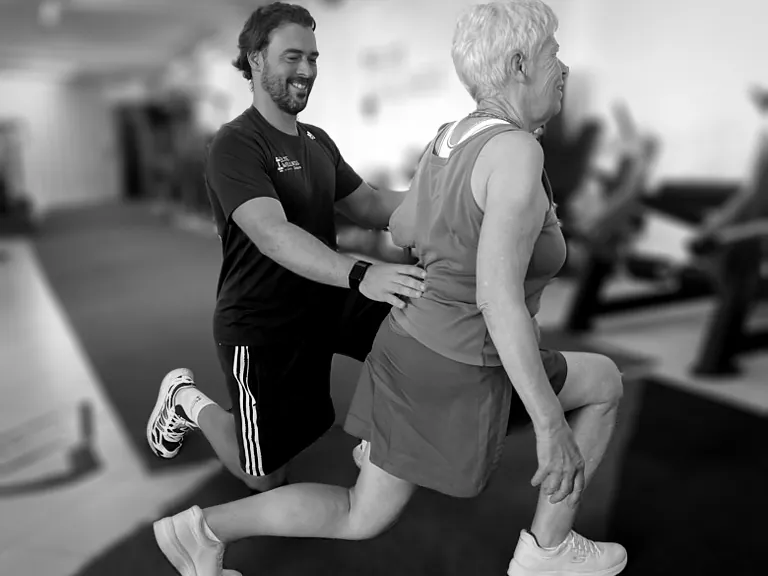
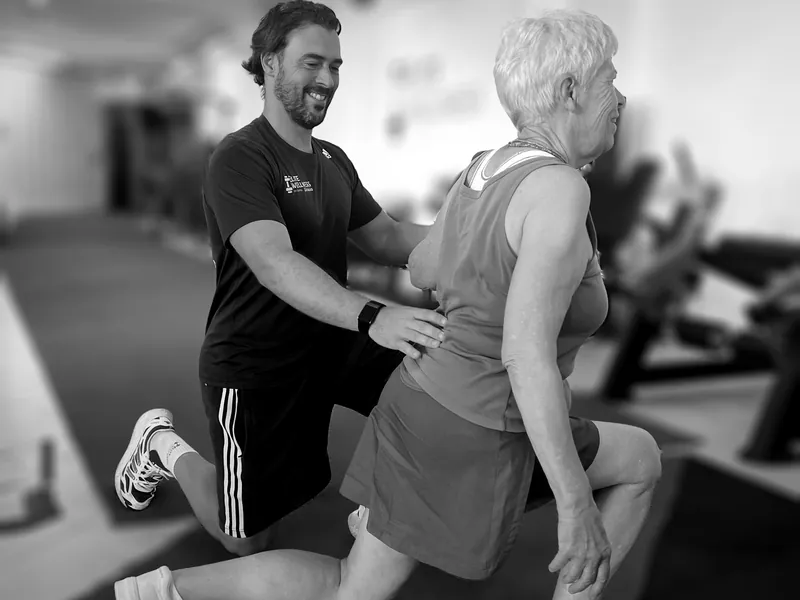
2.4.9.7: the straightened personal training photo, full size
The owner's straightened original (2758x3729) through build/photo.py
--kind hero --top 840: both heads with a little room above, the lunge
down to the knees (a 4:3 crop of this portrait cannot hold heads and
feet). Full size again, so the img gets back its 800 and 1600 srcset.

Claude-Session: https://claude.ai/code/session_01TAEyRdYyFaVDY5SAbe3ABb

diff --git a/elite-wellness-landing_2-4-9-7.html b/elite-wellness-landing_2-4-9-7.html
@@ -1483,7 +1483,7 @@ body.show-grid .grid-overlay{display:block}
   function ptRight(){ return '' }
   function ptBand(){
     var href=WA+encodeURIComponent(BOOK_MSG);
-    return '<div class="v7"><div class="v7-ph"><img class="v7-img" src="assets/pt-session.webp" width="768" height="576" loading="lazy" style="object-position:50% 0%" alt="A coach guiding a member through a lunge in a personal training session at Elite Wellness"></div>'+
+    return '<div class="v7"><div class="v7-ph"><img class="v7-img" src="assets/pt-session.webp" srcset="assets/pt-session-800.webp 800w, assets/pt-session.webp 1600w" sizes="(max-width:768px) 100vw, 50vw" width="1600" height="1200" loading="lazy" style="object-position:50% 0%" alt="A coach guiding a member through a lunge in a personal training session at Elite Wellness"></div>'+
       '<div class="v7-t"><p class="pc-leg">Personal training</p>'+
       '<p class="v7-h">Made around you</p>'+
       '<p class="pt-p">Everyone starts from a different place. An injury to come back from, pain that holds you back, a goal you keep missing, or simply not knowing where to begin. Your coach looks at where you are, sets the goal with you and builds every session around it, so you progress safely and spend no time on what does not work for you.</p>'+
